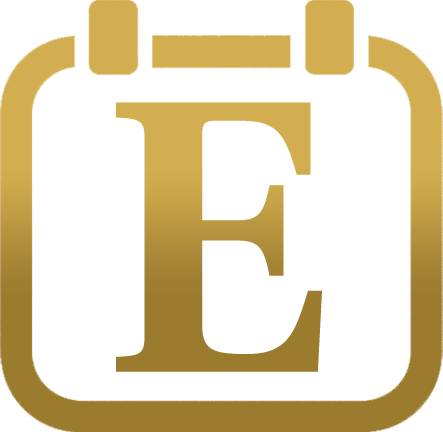
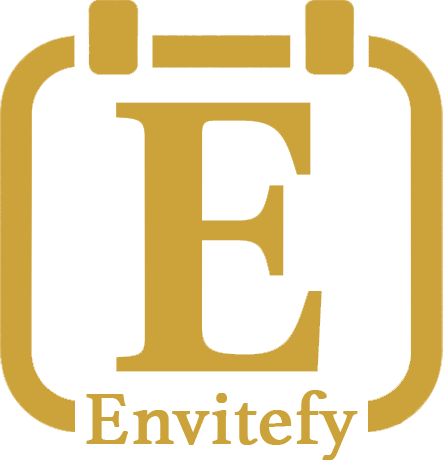
chore: update branding images in Home, LoginHero, and AuthModal components for enhanced visual consistency

diff --git a/src/app/page.tsx b/src/app/page.tsx
@@ -948,36 +948,16 @@ export default function Home() {
 
   return (
     <main className="landing-dark-gradient relative flex min-h-[100dvh] w-full flex-col items-center px-3 pb-20 pt-12 text-foreground md:px-8 md:pt-16">
-      <div className="main-brand-panel flex flex-col items-center gap-4 text-center px-6 py-5 w-full max-w-2xl mb-6 md:mb-10">
-        <p
-          className="text-5xl md:text-7xl text-white overflow-visible"
-          role="heading"
-          aria-level={1}
-        >
-          <span className="inline-flex items-center gap-3">
-            <Image
-              src="/LogoEonly.png"
-              alt="Envitefy emblem"
-              width={88}
-              height={88}
-              quality={100}
-              priority
-              unoptimized
-            />
-            <span
-              className="text-5xl md:text-7xl"
-              style={{
-                fontFamily: '"Venturis ADF", "Venturis ADF Fallback", serif',
-                lineHeight: "1.1",
-                display: "inline-block",
-                paddingBottom: "0.05em",
-                color: "#f4d9a4",
-              }}
-            >
-              nvitefy
-            </span>
-          </span>
-        </p>
+      <div className="main-brand-panel flex flex-col items-center gap-4 text-center px-8 py-5 w-auto mb-6 md:mb-10">
+        <Image
+          src="/E.png"
+          alt="Envitefy emblem"
+          width={200}
+          height={200}
+          quality={100}
+          priority
+          unoptimized
+        />
       </div>
       <div className="grid max-w-6xl grid-cols-2 gap-3 md:gap-8 lg:grid-cols-4 pt-6 mt-6 md:pt-10 md:mt-20">
         <OptionCard

diff --git a/src/app/landing/LoginHero.tsx b/src/app/landing/LoginHero.tsx
@@ -280,28 +280,12 @@ export default function LoginHero() {
               <Image
                 src="/E.png"
                 alt="Envitefy emblem"
-                width={88}
-                height={88}
+                width={150}
+                height={150}
                 quality={100}
                 priority
                 unoptimized
               />
-              <span
-                className="text-4xl md:text-8xl"
-                style={{
-                  fontFamily: '"Venturis ADF", "Venturis ADF Fallback", serif',
-                  backgroundImage:
-                    "linear-gradient(to bottom, #d4ae51 0%, #9a7b2f 100%)",
-                  backgroundClip: "text",
-                  WebkitBackgroundClip: "text",
-                  WebkitTextFillColor: "transparent",
-                  lineHeight: "1.2",
-                  display: "inline-block",
-                  paddingBottom: "0.1em",
-                }}
-              >
-                nvitefy
-              </span>
             </span>
           </p>
           <div className="flex flex-row items-center justify-center gap-3">

diff --git a/src/components/auth/AuthModal.tsx b/src/components/auth/AuthModal.tsx
@@ -92,16 +92,15 @@ export default function AuthModal({
         <div className="relative bg-surface/95 text-foreground rounded-3xl p-6 sm:p-8 wedding-glow-card auth-card-gradient">
           <div className="flex flex-col items-center gap-3 pb-7 text-center">
             <p className="wedding-kicker">{heroKicker}</p>
-            <div className="wedding-brand-lockup">
+            <div>
               <Image
                 src="/E.png"
                 alt="Envitefy emblem"
-                width={48}
+                width={150}
                 height={48}
                 quality={100}
                 unoptimized
               />
-              <span className="wedding-brand-mark">nvitefy</span>
             </div>
             <p className="text-sm text-foreground/70 max-w-sm">{heroBlurb}</p>
           </div>
